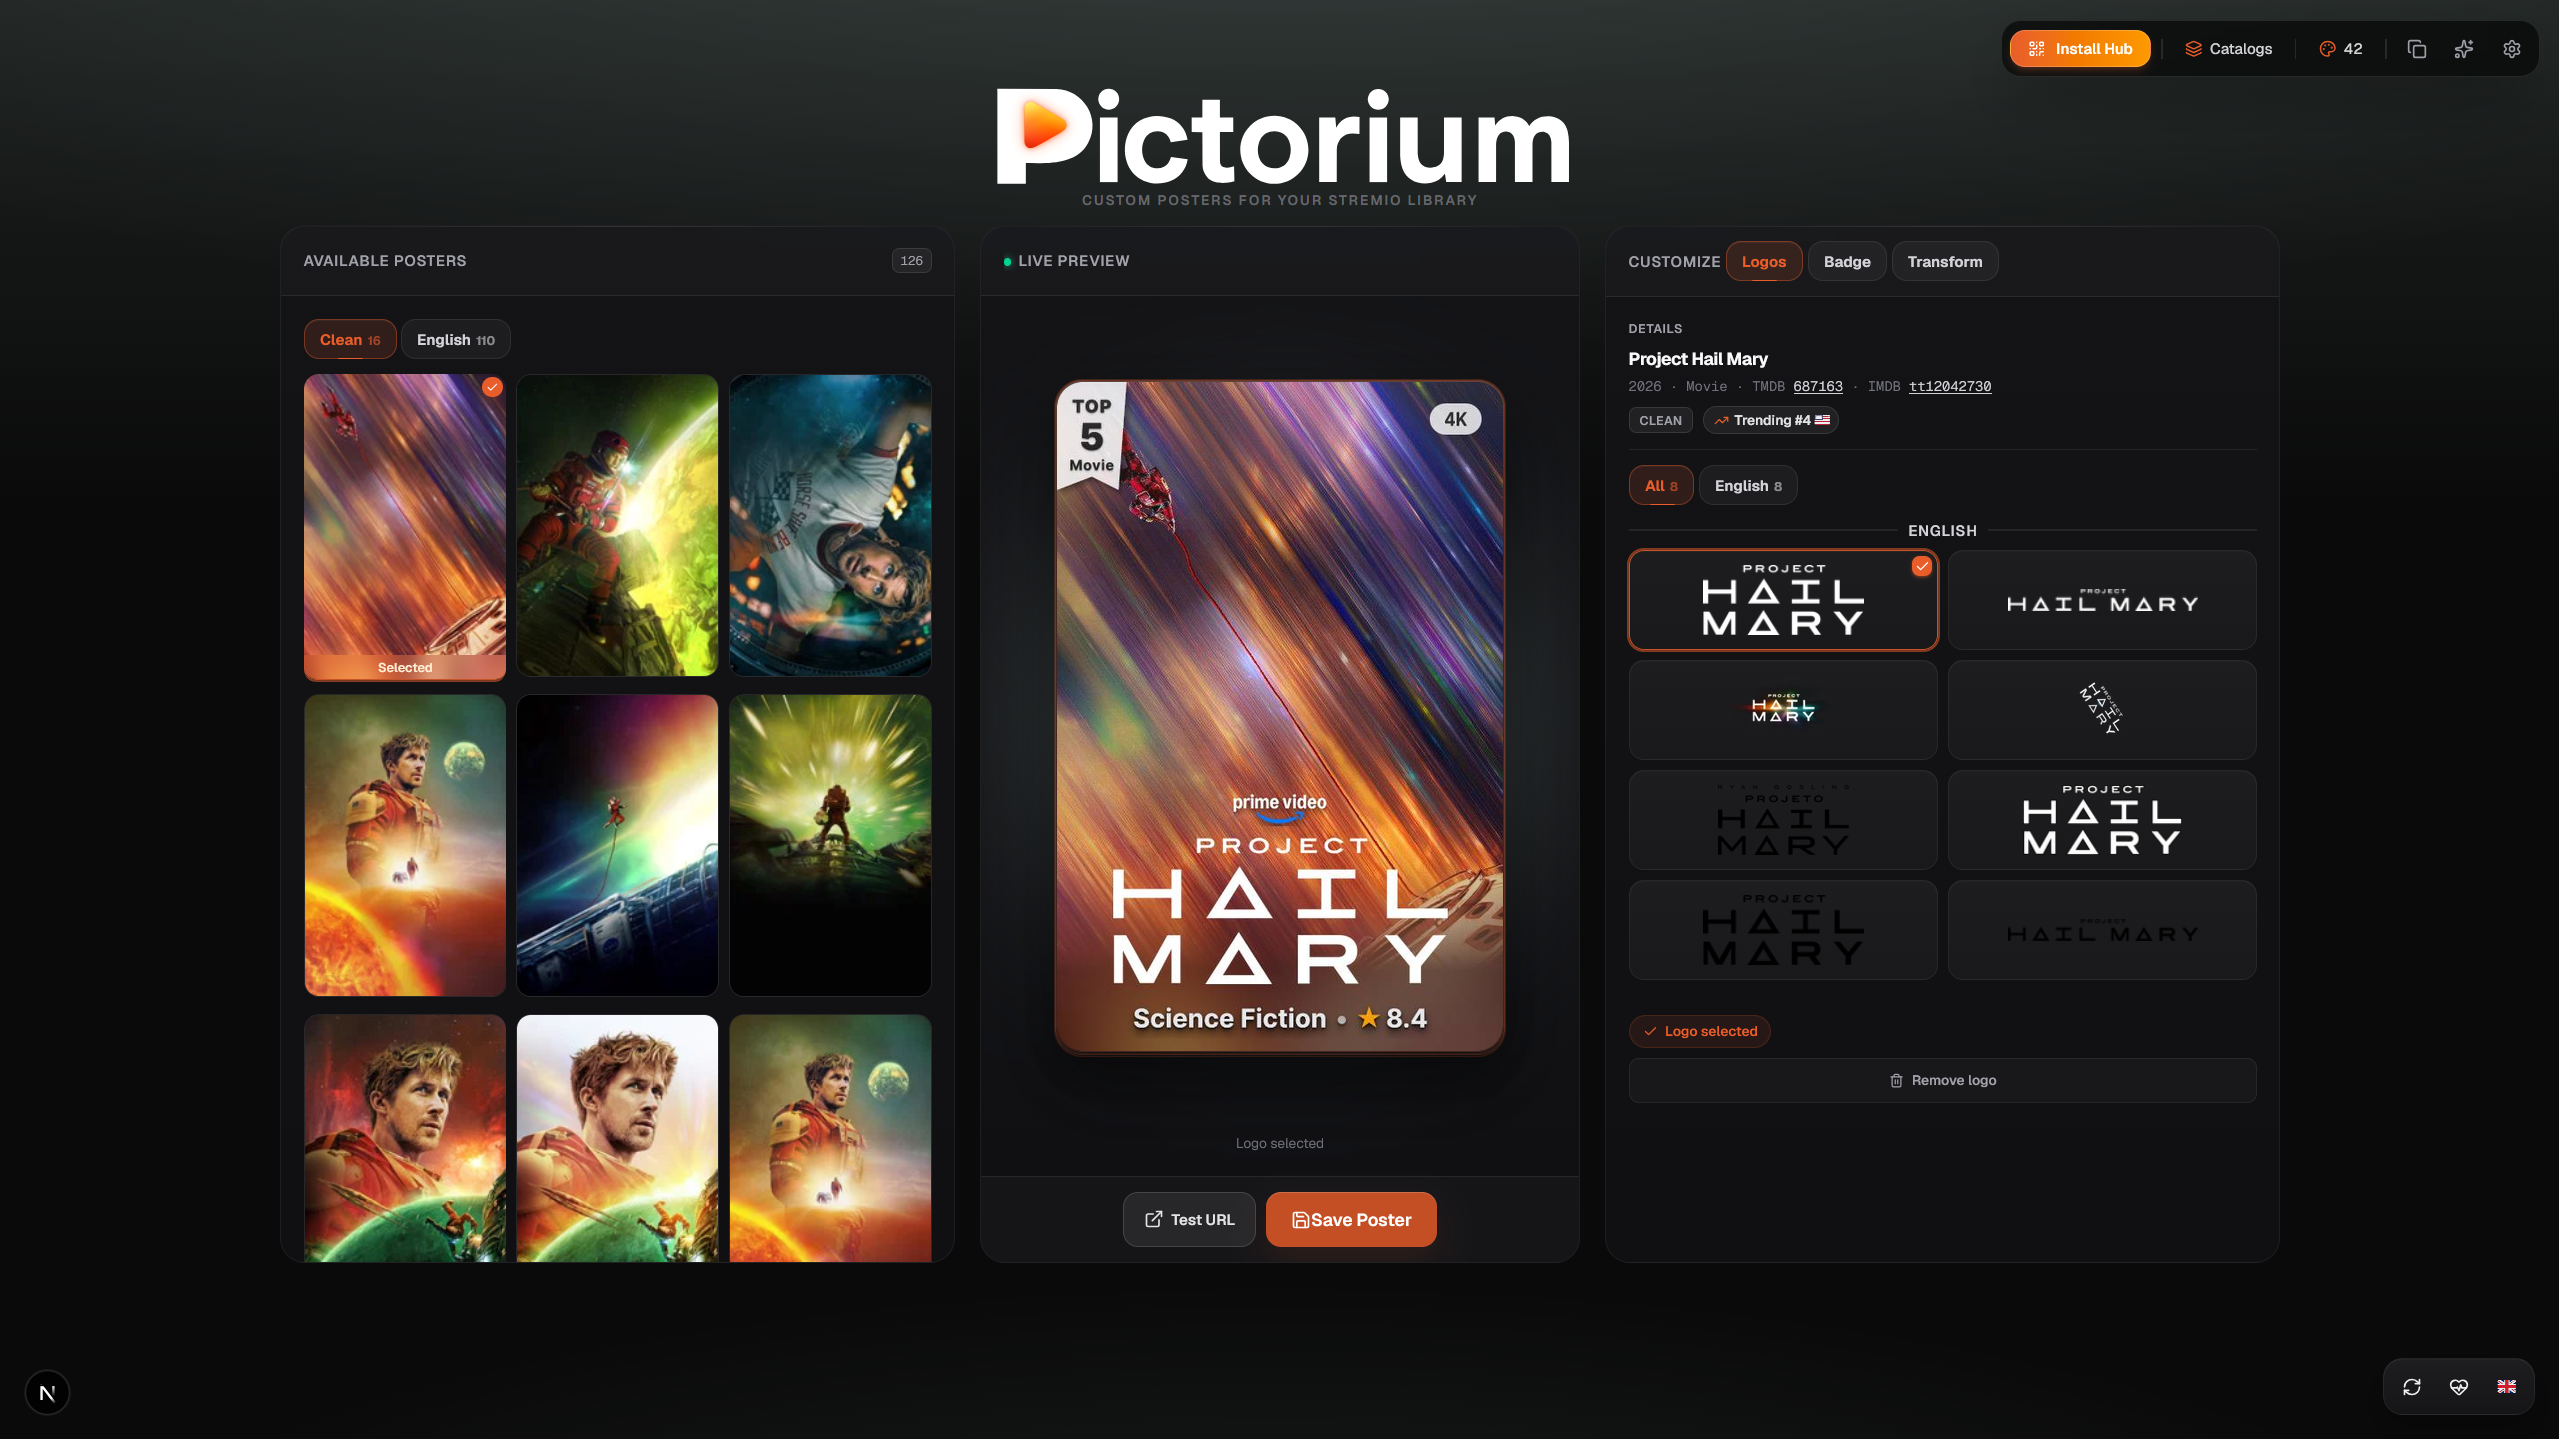
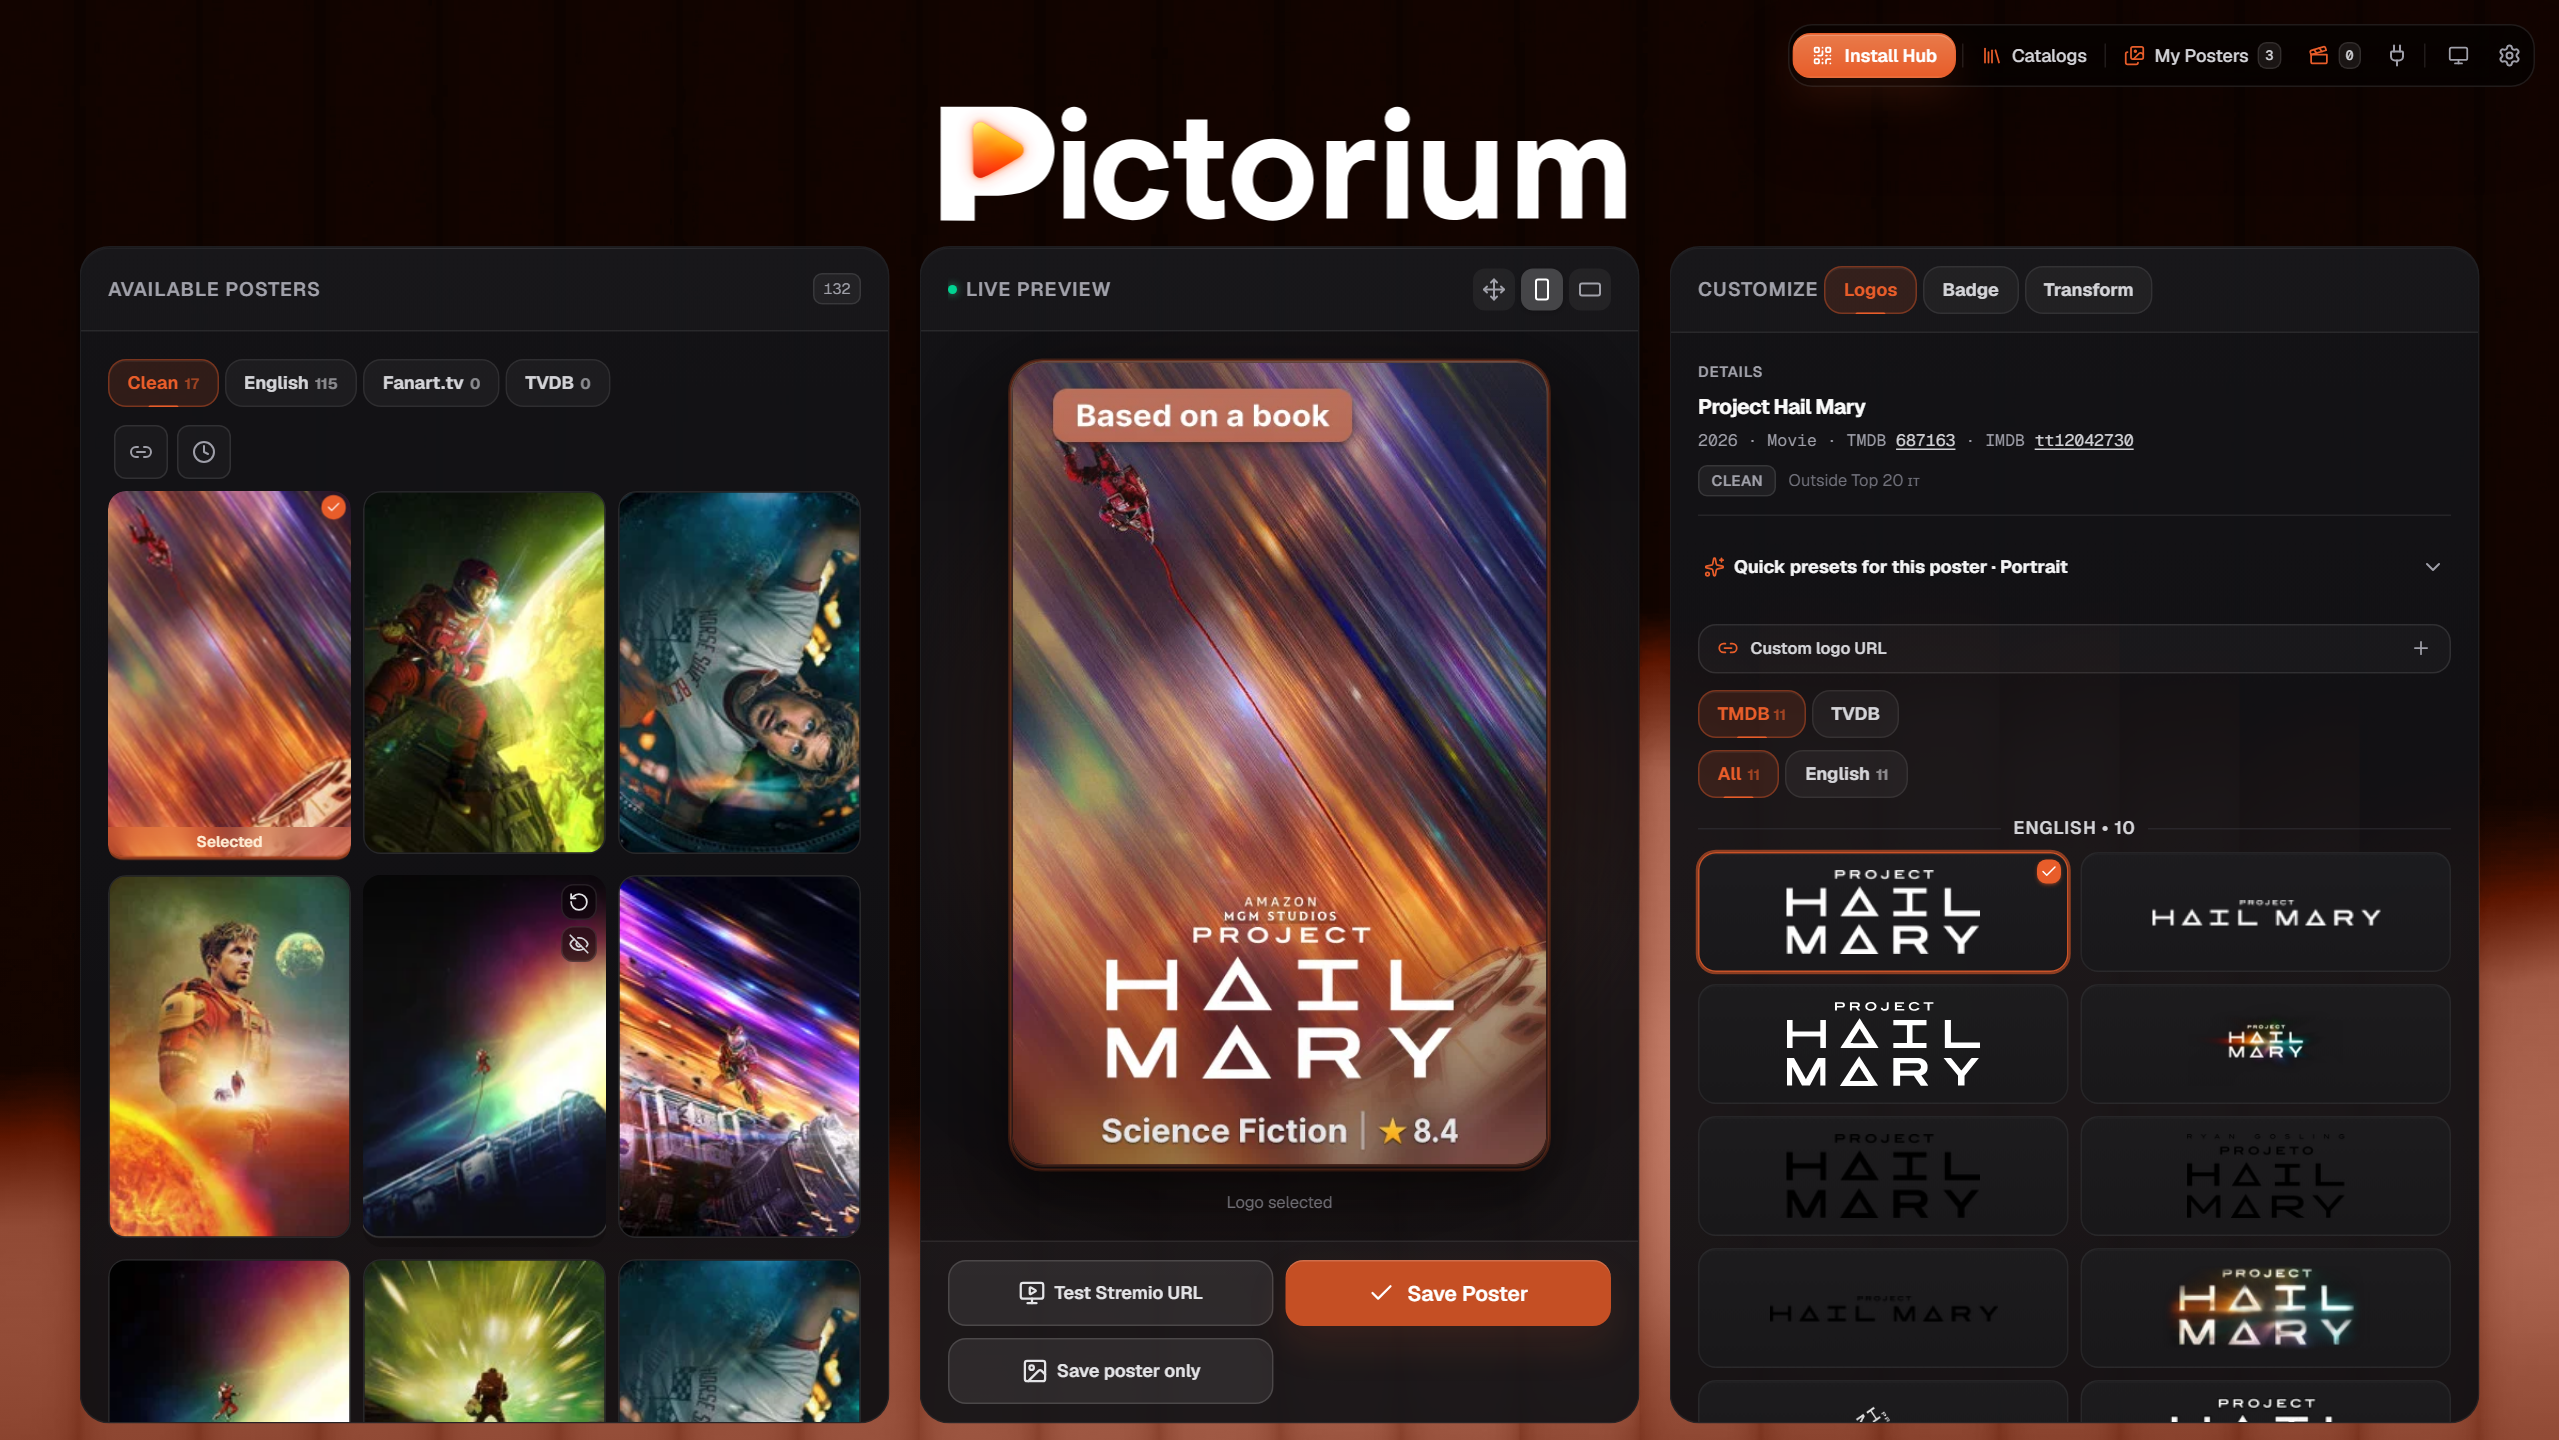
docs(readme): refresh preview screenshots and add poster walls
New home/editor/catalogs captures, portrait and 16:9 poster walls showcasing every badge style; drop outdated demo images.

diff --git a/README.it.md b/README.it.md
@@ -66,44 +66,24 @@ La strada più veloce usa un'istanza pubblica — nessuna installazione:
 <table align="center" width="100%">
   <tr>
     <td width="50%"><img src="https://raw.githubusercontent.com/Eful97/Pictorium/master/public/Screen/editor.png" alt="Pictorium Editor" style="border-radius: 8px;" /></td>
-    <td width="50%"><img src="https://raw.githubusercontent.com/Eful97/Pictorium/master/public/Screen/myposters.png" alt="Pictorium My Posters" style="border-radius: 8px;" /></td>
+    <td width="50%"><img src="https://raw.githubusercontent.com/Eful97/Pictorium/master/public/Screen/catalogs.png" alt="Pictorium Catalogs" style="border-radius: 8px;" /></td>
   </tr>
   <tr>
     <td align="center"><em>Editor WYSIWYG & Anteprima Live</em></td>
-    <td align="center"><em>I Miei Poster & Libreria Personale</em></td>
-  </tr>
-  <tr>
-    <td colspan="2"><img src="https://raw.githubusercontent.com/Eful97/Pictorium/master/public/Screen/catalogs.png" alt="Pictorium Catalogs" style="border-radius: 8px;" /></td>
-  </tr>
-  <tr>
-    <td align="center" colspan="2"><em>Cataloghi Dinamici & Classifiche Streaming JustWatch</em></td>
-  </tr>
-  <tr>
-    <td colspan="2"><img src="https://raw.githubusercontent.com/Eful97/Pictorium/master/public/Screen/landscape-editor.png" alt="Editor Landscape 16:9 — Ted Lasso" style="border-radius: 8px;" /></td>
-  </tr>
-  <tr>
-    <td align="center" colspan="2"><em>Editor Landscape 16:9: sfondi, logo integrato & Anteprima Live</em></td>
+    <td align="center"><em>Cataloghi Dinamici & Classifiche Streaming JustWatch</em></td>
   </tr>
 </table>
 
 <div align="center">
-  <img src="https://raw.githubusercontent.com/Eful97/Pictorium/master/public/Screen/1405.jpg" alt="Poster Demo — Dexter" width="31%" style="border-radius: 8px;" />
-  <img src="https://raw.githubusercontent.com/Eful97/Pictorium/master/public/Screen/155.jpg" alt="Poster Demo — The Dark Knight" width="31%" style="border-radius: 8px;" />
-  <img src="https://raw.githubusercontent.com/Eful97/Pictorium/master/public/Screen/66732.jpg" alt="Poster Demo — Stranger Things" width="31%" style="border-radius: 8px;" />
+  <img src="https://raw.githubusercontent.com/Eful97/Pictorium/master/public/Screen/poster-wall.jpg" alt="Portrait poster wall" width="100%" style="border-radius: 8px;" />
   <br />
-  <em>Poster verticali: base senza testo, logo integrato, badge qualità e voto</em>
+  <em>Poster verticali: badge Fresh, Nastro, Numero, Angolo, Split, Vetro, Tinta, Sfumato, Bordo, Editoriale e Coming Soon</em>
 </div>
 
 <div align="center">
-  <img src="https://raw.githubusercontent.com/Eful97/Pictorium/master/public/Screen/landscape.jpg" alt="Poster Landscape 16:9 Dimostrativo — Lanterns (HBO)" width="64%" style="border-radius: 8px;" />
+  <img src="https://raw.githubusercontent.com/Eful97/Pictorium/master/public/Screen/landscape-wall.jpg" alt="Landscape 16:9 poster wall" width="100%" style="border-radius: 8px;" />
   <br />
-  <em>Poster landscape 16:9 con logo integrato, nastro ranking e badge genere</em>
-</div>
-
-<div align="center">
-  <img src="https://raw.githubusercontent.com/Eful97/Pictorium/master/public/Screen/1368337.jpg" alt="Effetto Pre-Digitale — Coming Soon" width="31%" style="border-radius: 8px;" />
-  <br />
-  <em>Effetto Pre-Digitale: velo scuro + nastro "Coming Soon" sui film non ancora in streaming</em>
+  <em>Poster orizzontali 16:9: gli stessi stili di badge su sfondi con logo integrato</em>
 </div>
 
 ---

diff --git a/README.md b/README.md
@@ -66,44 +66,24 @@ The fastest path uses a public instance — no install needed:
 <table align="center" width="100%">
   <tr>
     <td width="50%"><img src="https://raw.githubusercontent.com/Eful97/Pictorium/master/public/Screen/editor.png" alt="Pictorium Editor" style="border-radius: 8px;" /></td>
-    <td width="50%"><img src="https://raw.githubusercontent.com/Eful97/Pictorium/master/public/Screen/myposters.png" alt="Pictorium My Posters" style="border-radius: 8px;" /></td>
+    <td width="50%"><img src="https://raw.githubusercontent.com/Eful97/Pictorium/master/public/Screen/catalogs.png" alt="Pictorium Catalogs" style="border-radius: 8px;" /></td>
   </tr>
   <tr>
     <td align="center"><em>WYSIWYG Editor & Live Preview</em></td>
-    <td align="center"><em>My Posters & Personal Library</em></td>
-  </tr>
-  <tr>
-    <td colspan="2"><img src="https://raw.githubusercontent.com/Eful97/Pictorium/master/public/Screen/catalogs.png" alt="Pictorium Catalogs" style="border-radius: 8px;" /></td>
-  </tr>
-  <tr>
-    <td align="center" colspan="2"><em>Dynamic Catalogs & JustWatch Streaming Charts</em></td>
-  </tr>
-  <tr>
-    <td colspan="2"><img src="https://raw.githubusercontent.com/Eful97/Pictorium/master/public/Screen/landscape-editor.png" alt="Landscape 16:9 Editor — Ted Lasso" style="border-radius: 8px;" /></td>
-  </tr>
-  <tr>
-    <td align="center" colspan="2"><em>Landscape 16:9 Editor: backdrops, baked-in logo & Live Preview</em></td>
+    <td align="center"><em>Dynamic Catalogs & JustWatch Streaming Charts</em></td>
   </tr>
 </table>
 
 <div align="center">
-  <img src="https://raw.githubusercontent.com/Eful97/Pictorium/master/public/Screen/1405.jpg" alt="Poster Demo — Dexter" width="31%" style="border-radius: 8px;" />
-  <img src="https://raw.githubusercontent.com/Eful97/Pictorium/master/public/Screen/155.jpg" alt="Poster Demo — The Dark Knight" width="31%" style="border-radius: 8px;" />
-  <img src="https://raw.githubusercontent.com/Eful97/Pictorium/master/public/Screen/66732.jpg" alt="Poster Demo — Stranger Things" width="31%" style="border-radius: 8px;" />
+  <img src="https://raw.githubusercontent.com/Eful97/Pictorium/master/public/Screen/poster-wall.jpg" alt="Portrait poster wall" width="100%" style="border-radius: 8px;" />
   <br />
-  <em>Portrait posters: textless base, baked-in logo, quality and rating badges</em>
+  <em>Portrait posters: Fresh, Ribbon, Number, Corner, Split, Glass, Tint, Gradient, Outline, Editorial and Coming Soon badges</em>
 </div>
 
 <div align="center">
-  <img src="https://raw.githubusercontent.com/Eful97/Pictorium/master/public/Screen/landscape.jpg" alt="Landscape 16:9 Poster Demo — Lanterns (HBO)" width="64%" style="border-radius: 8px;" />
+  <img src="https://raw.githubusercontent.com/Eful97/Pictorium/master/public/Screen/landscape-wall.jpg" alt="Landscape 16:9 poster wall" width="100%" style="border-radius: 8px;" />
   <br />
-  <em>16:9 landscape poster with baked-in logo, top-10 outline number, genre/rating and network badge</em>
-</div>
-
-<div align="center">
-  <img src="https://raw.githubusercontent.com/Eful97/Pictorium/master/public/Screen/1368337.jpg" alt="Pre-Digital Effect — Coming Soon" width="31%" style="border-radius: 8px;" />
-  <br />
-  <em>Pre-Digital Effect: dark veil + "Coming Soon" ribbon on movies not yet streaming</em>
+  <em>16:9 landscape posters: the same badge styles on backdrops with baked-in logo</em>
 </div>
 
 ---
